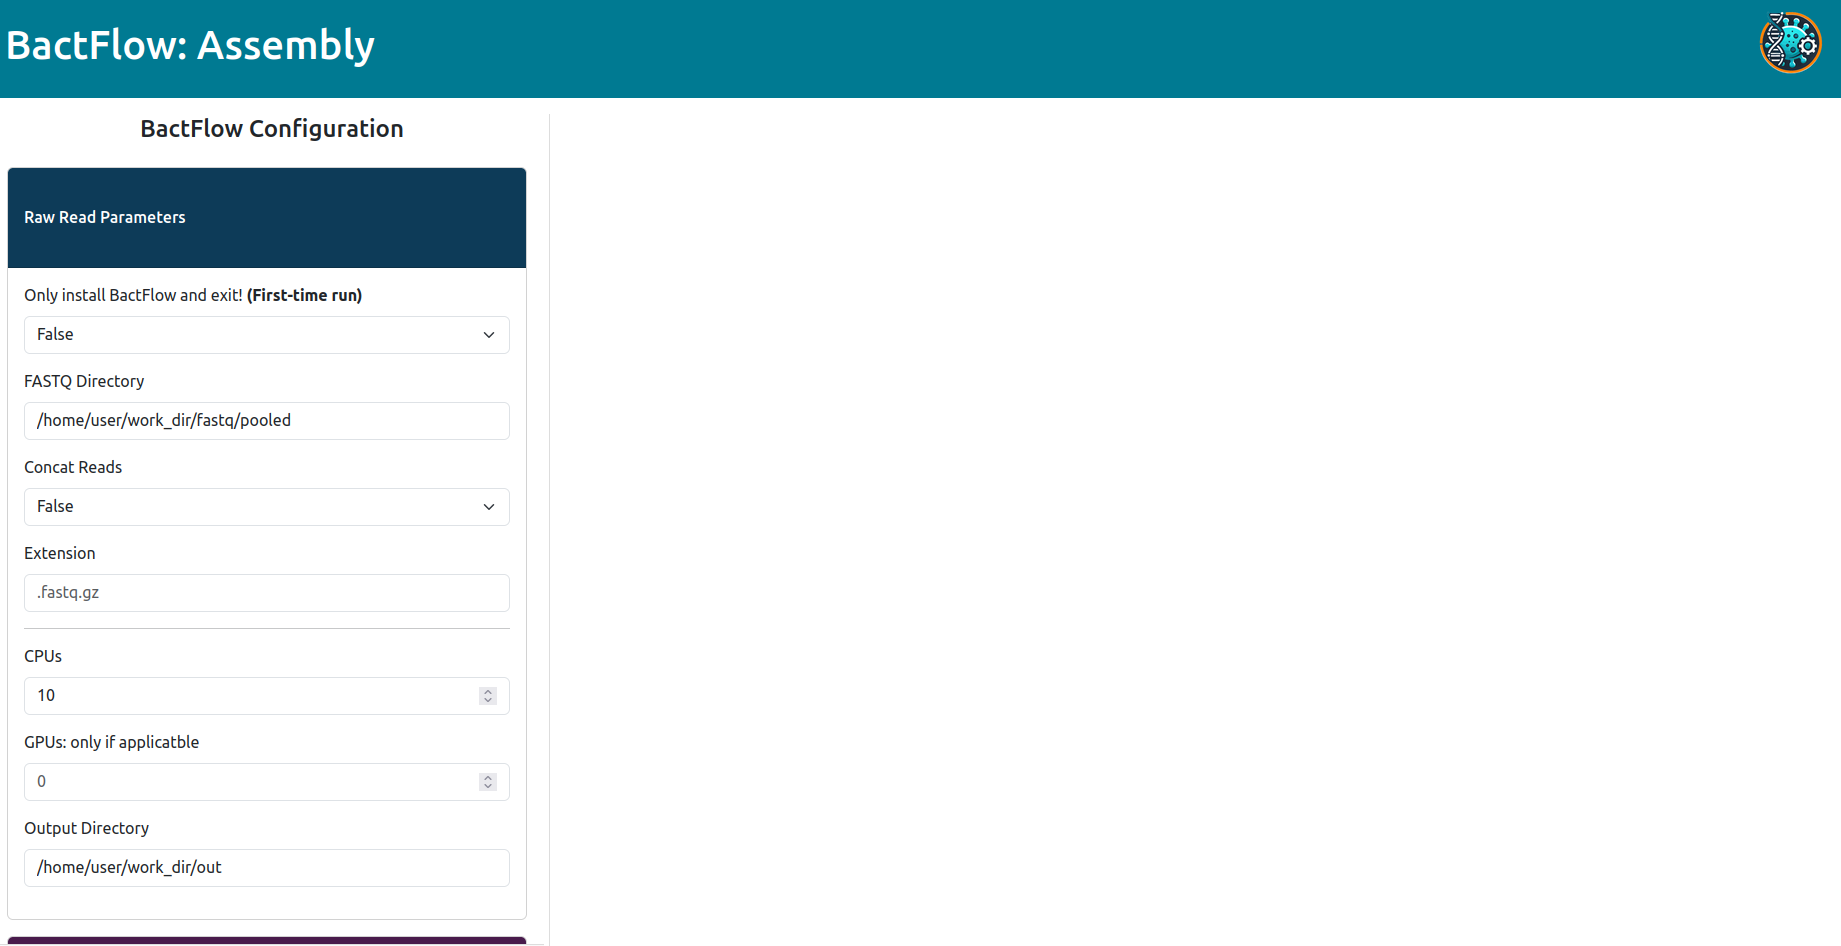
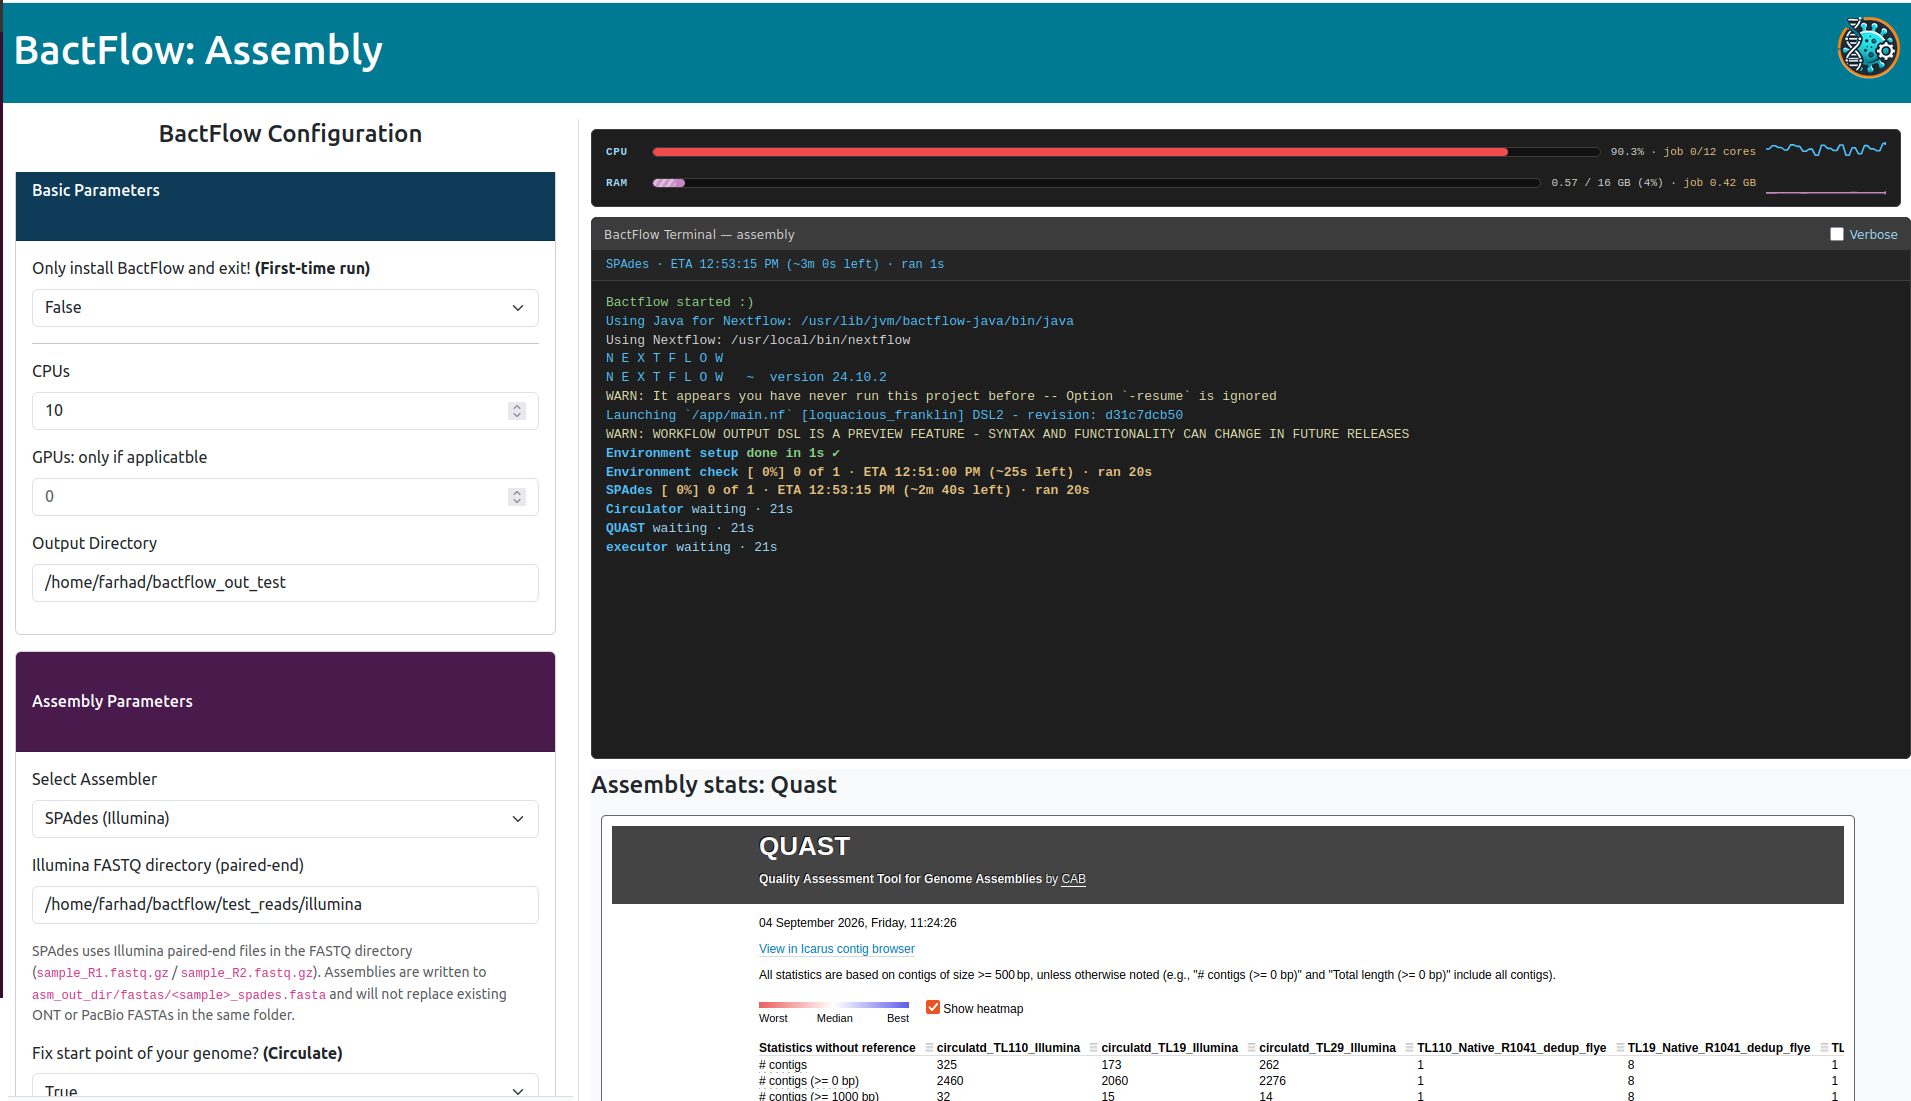
update: pictures are updated

diff --git a/UI/pre_assem_app/templates/pre-assembly.html b/UI/pre_assem_app/templates/pre-assembly.html
@@ -5,14 +5,65 @@
 {% block title %} Pre-assembly  {% endblock %}
 
 {% block extra_head %}
-<link rel="stylesheet" type="text/css" href="{{ url_for('static', filename = 'css/pre-assem.css') }}?v=vis7">
+<link rel="stylesheet" type="text/css" href="{{ url_for('static', filename = 'css/pre-assem.css') }}?v=sidebar-scroll6">
 <link rel="stylesheet" type="text/css" href="{{ url_for('static', filename = 'css/meters.css') }}?v=1">
 <link rel="stylesheet" href="https://cdn.datatables.net/2.2.2/css/dataTables.dataTables.css">
 <link rel="stylesheet" type="text/css" href="{{ url_for('static', filename = 'css/datatables.css') }}">
 <link rel="stylesheet" type="text/css" href="{{ url_for('static', filename = 'css/datatables.min.css') }}">
-<!-- DataTables CSS -->
 <link rel="stylesheet" type="text/css" href="https://cdn.datatables.net/1.10.21/css/jquery.dataTables.css">
-
+<style>
+  /* Single scrolling left column — buttons are IN the scroll flow (not overlay). */
+  #preForm > .container-fluid > .row.bf-pre-row {
+    display: flex !important;
+    flex-wrap: nowrap !important;
+    height: calc(100vh - 128px) !important;
+    max-height: calc(100vh - 128px) !important;
+    overflow: hidden !important;
+    margin-left: 0 !important;
+    margin-right: 0 !important;
+  }
+  #pre-side {
+    flex: 0 0 30% !important;
+    width: 30% !important;
+    max-width: 30% !important;
+    height: 100% !important;
+    max-height: 100% !important;
+    min-height: 0 !important;
+    overflow-x: hidden !important;
+    overflow-y: auto !important;
+    border-right: 1px solid #ddd;
+    padding: 8px 10px 24px 8px !important;
+    box-sizing: border-box !important;
+    -webkit-overflow-scrolling: touch;
+  }
+  #pre-side-actions {
+    position: static !important;
+    margin-top: 16px !important;
+    margin-bottom: 24px !important;
+    padding: 12px 8px !important;
+    background: #f8f9fa !important;
+    border: 1px solid #ddd !important;
+    border-radius: 6px;
+  }
+  #pre-side-actions .btn-group {
+    display: flex !important;
+    flex-wrap: wrap !important;
+    gap: 6px !important;
+    width: 100% !important;
+  }
+  #pre-side-actions .btn {
+    flex: 1 1 42% !important;
+    white-space: normal !important;
+    font-size: 0.82rem !important;
+  }
+  #pre-results-pane {
+    flex: 0 0 70% !important;
+    width: 70% !important;
+    max-width: 70% !important;
+    height: 100% !important;
+    overflow-y: auto !important;
+  }
+</style>
 {% endblock %}
 
 
@@ -51,38 +102,27 @@
 
 
   <div class="container-fluid mt-3">
-    <div class="row">
+    <div class="row bf-pre-row">
   
   
       <!-- Input Options Div -->
   
-      <div class="col-md-4" style="height: 90vh; position: relative; border-right: 1px solid #ddd; width: 30%;">
-   
-       
-  
-        <div style="height: calc(100% - 10px); overflow-y: auto; padding-right: 10px; margin-bottom: 5px; padding-bottom: 5px;">
-        
+      <div class="col-md-4" id="pre-side">
+
           <div class="card-header text-black" id="notInstalled" style="display: none; flex-direction: column; text-align: justify; text-align-last: center; padding:10px; background-color: rgb(233, 233, 233); align-items: center;">
             <label for="setup_only" class="form-label">BactFlow is not installed, please install <strong>BactFlow</strong> environemnt first </label>
             <button type="button" class="btn btn-warning" style="background-color: rgb(253, 94, 128); width:200px; color: rgb(255, 255, 255);" id="install-bt" name="setup_only" value="install"><strong>Install BactFlow</strong></button>
-            <!-- spinner -->
              <div id="installing" style="display: none;">
               <p>Installing bactflow...</p>
             <div class="spinner-grow text-info" role="status">
             <span class="sr-only"></span>
-            
           </div>
              </div>
-            
           </div>
-          
 
           <div class="card-header text-black" id="Installed" style="display: none; flex-direction: column; text-align: justify; text-align-last: center; padding:10px; background-color: rgb(216, 215, 215); align-items: center;">
-            
-            
           </div>
-          
-         <br>
+
           <!-- Raw Read Parameters -->
           <div class="card mb-3">
             <div class="card-header d-flex text-white align-items-center" style="background-color: rgb(51, 171, 161); height: 100px; position: relative; padding-top: auto;">
@@ -100,20 +140,6 @@
                 </select>
               </div>
 
-              <div class="mb-3" id="pacbioKindGroup" style="display: none;">
-                <label for="pacbio_read_kind" class="form-label">PacBio read kind (hint)</label>
-                <select class="form-select" id="pacbio_read_kind" name="pacbio_read_kind">
-                  <option value="hifi" selected>HiFi / CCS (&lt;1% error, high Q)</option>
-                  <option value="corr">Corrected (&lt;3% error)</option>
-                  <option value="clr">CLR / subreads (&lt;20% error)</option>
-                </select>
-                <div class="form-text">
-                  Plots are the same as ONT. Visualize also classifies PacBio reads as HiFi/CCS or subreads/CLR
-                  and tells you which Assembly Flye mode to use (<code>pacbio-hifi</code> vs <code>pacbio-raw</code>).
-                  For RSII/CLR movie folders, choose CLR / subreads and keep Concat Reads on.
-                </div>
-              </div>
-
               <div class="mb-3">
                 <label for="fastq_dir" class="form-label">FASTQ Directory</label>
                 <div class="input-group">
@@ -127,15 +153,38 @@
                 </div>
               </div>
 
+              <div class="mb-3">
+                <label for="out_dir" class="form-label">Output Directory</label>
+                <input type="text" class="form-control" id="out_dir" name="out_dir" placeholder="bactflow_out" value="./bactflow_out"/>
+              </div>
+
+              <div class="mb-3">
+                <label for="cpus" class="form-label">CPUs</label>
+                <input type="number" class="form-control" id="cpus" name="cpus" placeholder="1"  value="1"/>
+              </div>
+
+              <div class="mb-3" id="pacbioKindGroup" style="display: none;">
+                <label for="pacbio_read_kind" class="form-label">PacBio read kind (hint)</label>
+                <select class="form-select" id="pacbio_read_kind" name="pacbio_read_kind">
+                  <option value="hifi" selected>HiFi / CCS (&lt;1% error, high Q)</option>
+                  <option value="corr">Corrected (&lt;3% error)</option>
+                  <option value="clr">CLR / subreads (&lt;20% error)</option>
+                </select>
+                <div class="form-text">
+                  Visualize classifies PacBio as HiFi/CCS or subreads/CLR and which Flye mode to use
+                  (<code>pacbio-hifi</code> vs <code>pacbio-raw</code>).
+                </div>
+              </div>
+
               <div class="mb-3" id="concatReadsGroup">
                 <label for="concat_reads" class="form-label">Concat Reads</label>
                 <select class="form-select" id="concat_reads" name="concat_reads">
-                  <option value="true" selected>True</option>
-                  <option value="false">False</option>
+                  <option value="true">True</option>
+                  <option value="false" selected>False</option>
                 </select>
                 <div class="form-text">
-                  Leave on for ONT barcode folders and PacBio sample folders
-                  (e.g. <code>TL110_fastq/*.subreads.fastq</code>) so each sample is pooled into one FASTQ.
+                  Set True for ONT barcode folders or PacBio sample folders that still need pooling
+                  (e.g. <code>TL110_fastq/*.subreads.fastq</code>).
                 </div>
               </div>
 
@@ -143,19 +192,8 @@
                 <label for="extension" class="form-label">Extension</label>
                 <input type="text" class="form-control" id="extension" name="extension" placeholder=".fastq.gz" value=".fastq.gz"/>
                 <div class="form-text">
-                  Auto-detected if needed. PacBio movie chunks are often uncompressed
-                  <code>.subreads.fastq</code> (not <code>.fastq.gz</code>).
+                  Auto-detected if needed. PacBio chunks are often <code>.subreads.fastq</code>.
                 </div>
-              </div>
-              <hr>
-              <div class="mb-3">
-                <label for="cpus" class="form-label">CPUs</label>
-                <input type="number" class="form-control" id="cpus" name="cpus" placeholder="1"  value="1"/>
-              </div>
-             
-              <div class="mb-3">
-                <label for="out_dir" class="form-label">Output Directory</label>
-                <input type="text" class="form-control" id="out_dir" name="out_dir" placeholder="bactflow_out" value="./bactflow_out"/>
               </div>
 
               <div id="illuminaFilterGroup" style="display: none;">
@@ -182,30 +220,21 @@
               </div>
             </div>
           </div>
-  
-        
-          <hr>
-         
-        </div>
-  
-        <!-- Fixed Buttons Section -->
-        <div class="bg-light py-3" style="position: absolute; bottom: 5px; left: 5px; right: 5px; z-index: 1000; border-top: 1px solid #ddd;">
-          <div class="btn-group" style="justify-content: center; display: flex;">
+
+        <!-- Buttons scroll with the form (not glued over the last fields) -->
+        <div class="bg-light" id="pre-side-actions">
+          <div class="btn-group">
             <button type="button" class="btn btn-info" onclick="catFastq()" id="read-cat" name="action-assem" value="stats"><strong>Initiate read cat</strong></button>
-              <button type="button" class="btn btn-warning" onclick="filterIllumina()" id="illumina-filter-bt" name="action-assem" value="filter" style="display: none;"><strong>Filter Illumina reads</strong></button>
-              <button type="button" class="btn btn-secondary" onclick="read_stat()" id="read-stat" name="action-assem" value="stats"><strong>Display read statistics</strong></button>
-              <button type="button" class="btn btn-success" onclick="read_vis()" name="action-assem" value="vis" id="vis-bt"><strong>Visualize reads</strong></button>
-              
-            
+            <button type="button" class="btn btn-warning" onclick="filterIllumina()" id="illumina-filter-bt" name="action-assem" value="filter" style="display: none;"><strong>Filter Illumina reads</strong></button>
+            <button type="button" class="btn btn-secondary" onclick="read_stat()" id="read-stat" name="action-assem" value="stats"><strong>Display read statistics</strong></button>
+            <button type="button" class="btn btn-success" onclick="read_vis()" name="action-assem" value="vis" id="vis-bt"><strong>Visualize reads</strong></button>
           </div>
-          <br>
-          
-        </div> 
-        
+        </div>
+
       </div>
   
          <!-- installation Output Section -->
-         <div id="pre-results-pane" class="col-md-9" style="display: block; width: 70%; height: 100vh; overflow-y: auto;">
+         <div id="pre-results-pane" class="col-md-9">
 
           <div id="bf-meters" class="bf-meters" aria-label="CPU and memory usage">
             <div class="bf-meter" data-kind="cpu">

diff --git a/UI/pre_assem_app/static/css/pre-assem.css b/UI/pre_assem_app/static/css/pre-assem.css
@@ -178,3 +178,89 @@ table.dataTable thead th {
     background: #fdeeee;
     border: 1px solid #e0a0a0;
 }
+
+/* Left menu: absolute scroll pane + sticky bottom actions.
+   Bootstrap .row flex items default to min-height:auto, which prevents
+   shrinking and kills overflow scrolling when PacBio/Illumina blocks expand. */
+#preForm > .container-fluid {
+    max-width: 100%;
+}
+
+#preForm > .container-fluid > .row {
+    display: flex;
+    flex-wrap: nowrap;
+    align-items: stretch;
+    margin-left: 0;
+    margin-right: 0;
+    height: calc(100vh - 128px);
+    max-height: calc(100vh - 128px);
+    overflow: hidden;
+}
+
+.bf-pre-side {
+    position: relative !important;
+    flex: 0 0 30%;
+    width: 30% !important;
+    max-width: 30% !important;
+    height: 100% !important;
+    max-height: 100% !important;
+    min-height: 0 !important;
+    border-right: 1px solid #ddd;
+    overflow: hidden !important;
+    box-sizing: border-box;
+    padding-left: 8px;
+    padding-right: 8px;
+}
+
+.bf-pre-side-scroll {
+    position: absolute;
+    top: 0;
+    left: 0;
+    right: 0;
+    bottom: 140px; /* reserved for wrapping action buttons */
+    overflow-y: scroll !important;
+    overflow-x: hidden !important;
+    padding: 8px 12px 28px 8px;
+    box-sizing: border-box;
+    -webkit-overflow-scrolling: touch;
+    overscroll-behavior: contain;
+}
+
+.bf-pre-side-actions {
+    position: absolute !important;
+    left: 0;
+    right: 0;
+    bottom: 0;
+    z-index: 20;
+    margin: 0;
+    padding: 10px 8px !important;
+    min-height: 120px;
+    border-top: 1px solid #ddd;
+    background: #f8f9fa;
+    box-sizing: border-box;
+}
+
+.bf-pre-side-actions-btns {
+    display: flex;
+    flex-wrap: wrap;
+    justify-content: center;
+    gap: 6px;
+    width: 100%;
+}
+
+.bf-pre-side-actions-btns > .btn {
+    flex: 1 1 42%;
+    font-size: 0.82rem;
+    white-space: normal;
+}
+
+#pre-results-pane {
+    flex: 0 0 70%;
+    width: 70% !important;
+    max-width: 70% !important;
+    min-width: 0;
+    height: 100% !important;
+    max-height: 100% !important;
+    overflow-y: auto;
+    box-sizing: border-box;
+}

diff --git a/UI/pre_assem_app/static/js/pre-assem.js b/UI/pre_assem_app/static/js/pre-assem.js
@@ -413,10 +413,11 @@ function updatePlatformUI() {
     concatSel.value = "false";
   }
   if (concatSel && lastReadPlatform === "illumina" && !illumina) {
-    concatSel.value = "true";
+    concatSel.value = "false";
   }
-  if (concatSel && pacbio) {
-    concatSel.value = "true";
+  if (concatSel && (platform === "ont" || platform === "pacbio") && lastReadPlatform !== platform) {
+    // Keep concat off by default for long-read platforms.
+    concatSel.value = "false";
   }
   if (catBtn) {
     catBtn.style.display = illumina ? "none" : "";
